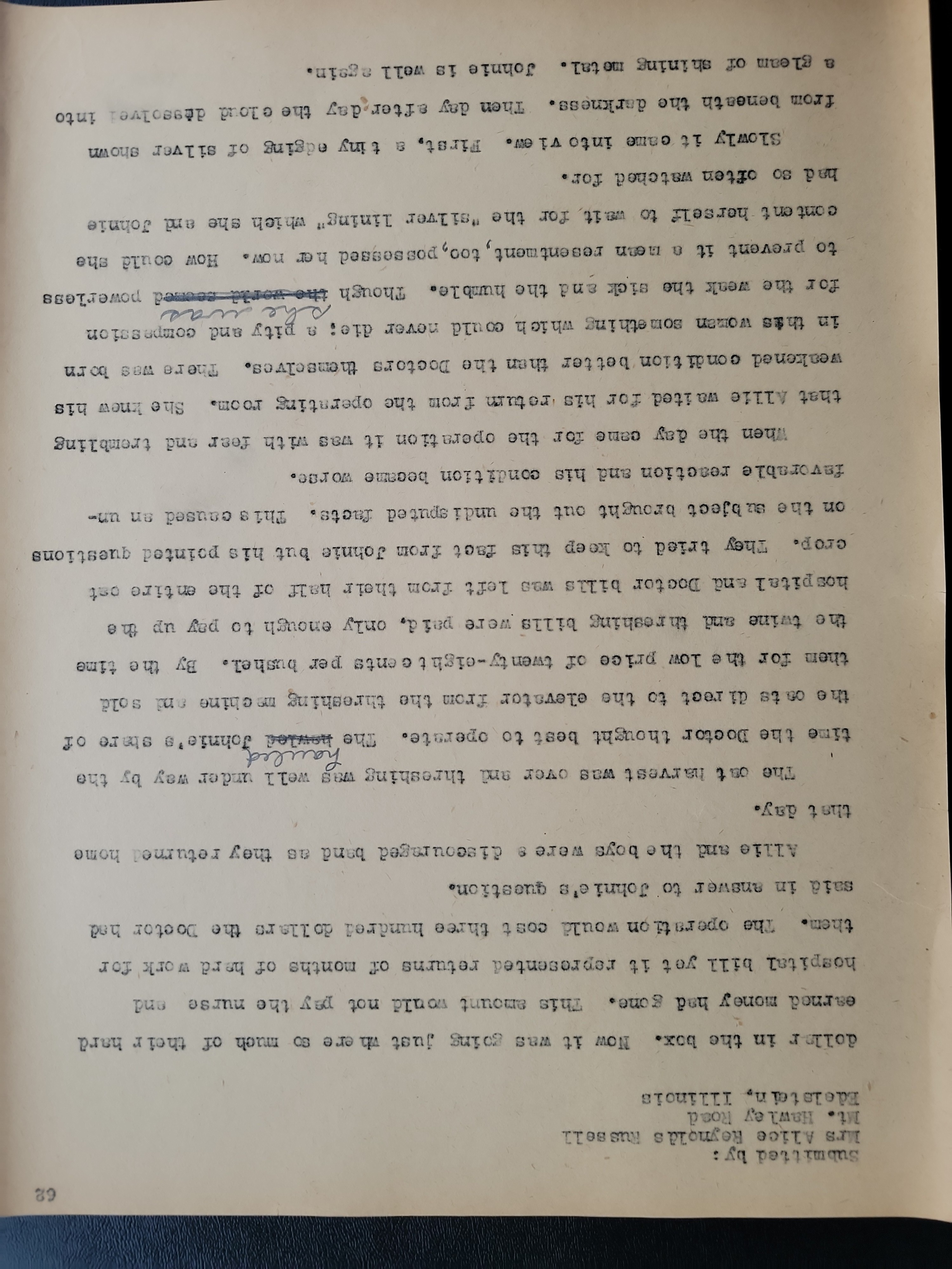
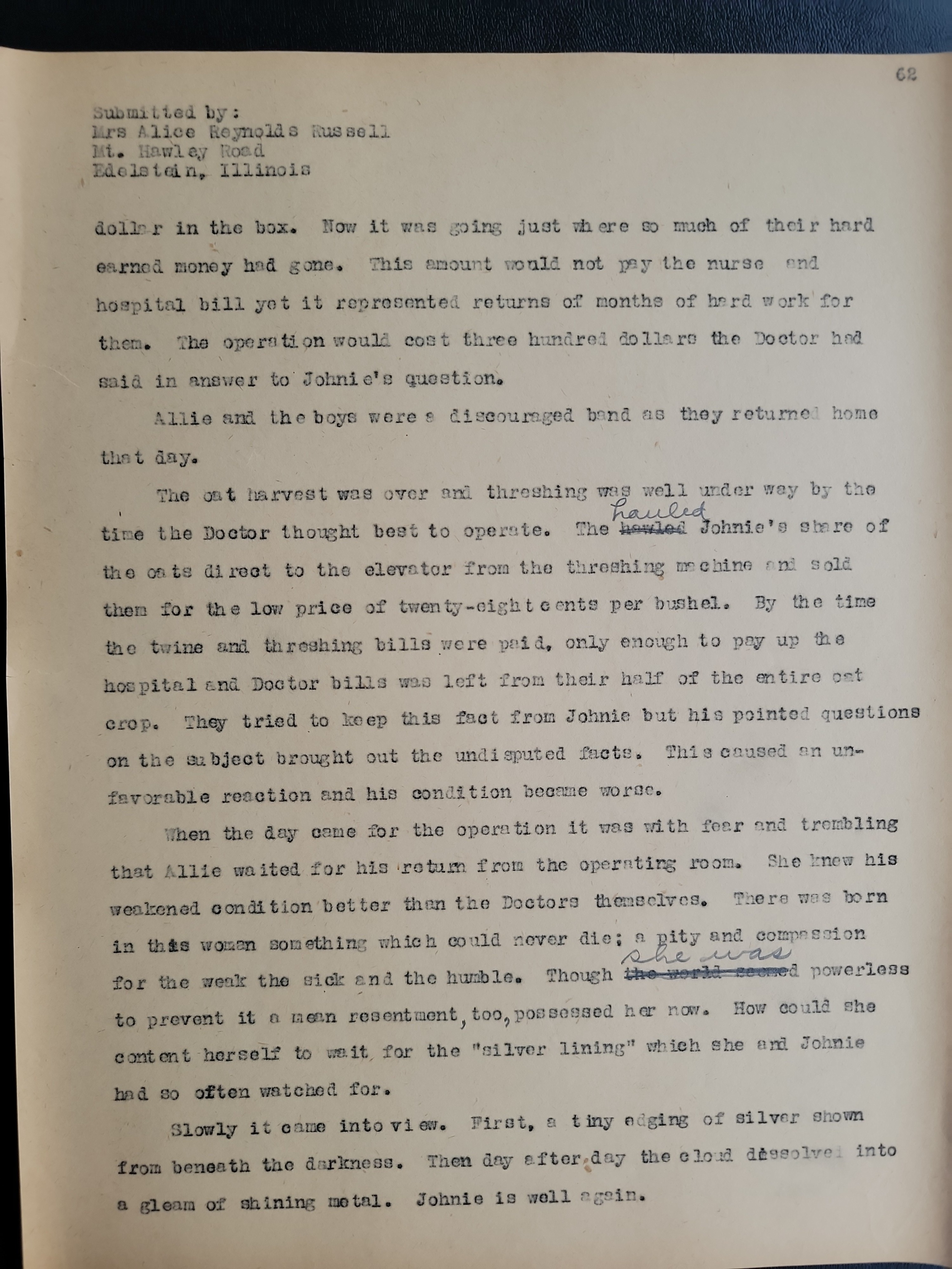
Fix page 226 image orientation (Phase 0 orientation-check miss) + batch 8 progress
A verification agent caught that pages/originals/page-226.jpg was still
upside down despite the earlier page-by-page orientation pass in Phase 0.
Rotated it 180 degrees to correct; the existing transcript text was
already accurate against the corrected orientation, so no text changes
were needed, just the image fix and an updated transcriber note.

Claude-Session: https://claude.ai/code/session_01MLbLpPqcShu7BR6bmmabLA

diff --git a/transcript/page-228.md b/transcript/page-228.md
@@ -6,7 +6,7 @@ image: pages/originals/page-228.jpg
 has_pencil: true
 has_table: false
 illegible_spots: 0
-needs_review: true
+needs_review: false
 ---
 
                                                                     64
@@ -49,10 +49,12 @@ might be and thanked their God for the many blessing received.
 
 - Typed page number "64" at top right.
 - Chapter heading "CHAPTER XVII" centered below the submission block.
-- PENCIL MARK: in "when the found every bulb was rotted" a faint gray
+- PENCIL MARK: in "when the found every bulb was rotted" a gray
   "y"-shaped stroke sits just below the line immediately after "the",
-  apparently a pencil-added "y" correcting "the" to "they". Gray tone
-  suggests pencil rather than typewriter; flagged for review.
+  a pencil-added "y" correcting "the" to "they". Confirmed on close
+  zoom and pixel-level color check: neutral gray/graphite, no blue
+  shift versus the page's typewriter-ink baseline — ordinary pencil,
+  not the separate blue-pencil pattern.
 - TYPED INTERLINEAR INSERTION: the word "bed" is typewritten above the
   line with a caret at the insertion point in "to take her ^ for a few
   days." — transcribed inline as "to take her bed for a few days." The
@@ -64,3 +66,8 @@ might be and thanked their God for the many blessing received.
 - "downed", "could buy and hid from them" (for "hide"), and "the many
   blessing received" (for "blessings") are as typed.
 - Small tear at top edge near the page number; no text affected.
+- Verified: 2026-07-07 — re-checked the pencil "y" insertion, the typed
+  "bed" interlinear insertion with caret, and both typed interlinear
+  quote marks around "standing still and waiting" under magnification;
+  all confirmed accurate as previously transcribed. Resolved
+  needs_review to false; no transcript text changes needed.

diff --git a/transcript/page-222.md b/transcript/page-222.md
@@ -24,7 +24,7 @@ the bank saw fit to start foreclosure on their farm mortgage.  After
 employing a lawyer to advise them it was thought best to sign the farm
 over to the bank.  This left them without a farm of their own, but still
 plenty of debts.  If they had been the kind of people who give up to
-discouragements they certainly would have "folded their tents" as the
+discouregements they certainly would have "folded their tents" as the
 Arabs and as silently stole away.
      Not so, this family.  They rented another eighty acre farm near them
 making two hundred and forty acres in all and set about to try again.
@@ -47,3 +47,11 @@ flowers now.
 - "as silently stole away" (for "stole" vs "stolen"/"stole" idiom) and the
   double space in "his time  to cultivating" are as typed.
 - No pencil marks found on this page.
+- Verified: 2026-07-07 — corrected a silently "fixed" typo from Phase 1:
+  the photo clearly types "discouregements" (an "e" where "discouragements"
+  would have an "a") — confirmed by close zoom, not a letter-shape illusion.
+  Restored the typo per the sacred-typed-layer rule. Checked "unwholesome"
+  (looked like a possible word-break due to a weak "n" strike; pixel check
+  confirms it is one word, no change) and "Johnie" (single "n", no pencil
+  correction present). "brought" strikeover and other overstrikes are
+  ordinary black typewriter ink, not blue pencil. No other changes.

diff --git a/transcript/page-226.md b/transcript/page-226.md
@@ -45,10 +45,10 @@ a gleam of shining metal.  Johnie is well again.
 
 ## Transcriber notes
 
-- IMAGE IS ROTATED 180 DEGREES (photographed upside down). Transcribed
-  from a rotated copy; typed page number "62" is at the top right when
-  properly oriented. Flagged needs_review so the image can be re-shot or
-  rotated.
+- Image was rotated 180 degrees (an orientation-check miss from Phase 0)
+  when this was verified; corrected in place on 2026-07-07 so
+  pages/originals/page-226.jpg now displays upright. Transcript text
+  below was already accurate against the corrected orientation.
 - TWO PENCIL CORRECTIONS on this page:
   1. "The howled Johnie's share of" — typed "howled" is struck through
      in pencil with "hauled" written above it. (The typed word under the
@@ -68,5 +68,5 @@ a gleam of shining metal.  Johnie is well again.
   gray with no blue shift versus the page's typewriter-ink baseline, so
   they remain classified as plain pencil (not the separate blue-pencil
   pattern seen elsewhere in the manuscript). No transcript text changes
-  needed; resolved needs_review to false. The image-rotation issue is a
-  photography/scan artifact, not a transcription problem — see report.
+  needed; resolved needs_review to false. The source image was also
+  corrected from upside-down to upright the same day (see note above).

diff --git a/transcript/page-221.md b/transcript/page-221.md
@@ -6,7 +6,7 @@ image: pages/originals/page-221.jpg
 has_pencil: false
 has_table: false
 illegible_spots: 0
-needs_review: true
+needs_review: false
 ---
 
                                                                     57
@@ -60,3 +60,14 @@ had been a hard year on all the family.  Up every morning by day break
 - The words "only for" at the end of the double-doors line are noticeably
   darker — struck twice or retyped in place; reading is clear.
 - Right edge of the sheet has small tears/chips; no text lost.
+- Verified: 2026-07-07 — resolved needs_review. Examined the margin dot
+  beside "in contact/fortable chairs" closely: it is a solid near-black dot
+  with a faint hairline dash just above/left of it, both plain
+  black/grey (not blue-shifted) and not aligned with any correction,
+  missing word, or error in the adjacent text — most consistent with a
+  stray ink blot or a proofreader's tick unrelated to the text layer, not
+  an authorial pencil correction. Left untranscribed per the no-plausible-
+  purpose rule. Confirmed "only for" overstrike is ordinary black
+  typewriter double-strike, not blue pencil. Checked "Johnie" — typed as
+  single "n", no pencil correction present, stands as typed. No text
+  changes made.

diff --git a/transcript/page-208.md b/transcript/page-208.md
@@ -53,3 +53,11 @@ had never known before.
 - Page ends with a completed paragraph ("...had never known before.") and
   some blank space at the foot of the sheet.
 - No pencil marks found on this page.
+- Verified: 2026-07-07 — transcript confirmed accurate against photo, no
+  changes needed. Checked the "realize" strikeover (the "l" is overtyped
+  with a cross-shaped mark, plain black ink, not blue pencil) and every
+  dialogue quote mark on the page — all are true double quotes, no
+  single-quote normalization found. "Johnie" (with "said Johnie") has no
+  pencil correction. Note: this page is the first to name the family
+  surname "Bradford" ("the Bradfords found themselves greatly in debt");
+  spelled correctly and consistent with the photo.

diff --git a/transcript/page-229.md b/transcript/page-229.md
@@ -55,3 +55,9 @@ have a right too."
 - Page begins a new paragraph — page 228 ended with a completed sentence
   ("...many blessing received."), so no break in continuity.
 - No pencil marks found on this page.
+- Verified: 2026-07-07 — checked all dialogue quote marks (all double,
+  consistent), the "Johnie" spelling at each occurrence (no pencil "n"
+  insertion present), the "strocking" overtype, and comma spacing;
+  transcript confirmed accurate against photo, no changes needed. A
+  faint stray tick mark before "The" (in "low.  The "golden") has no
+  plausible edit purpose and is left untranscribed as a likely smudge.

diff --git a/transcript/page-211.md b/transcript/page-211.md
@@ -53,3 +53,8 @@ to keep warm."  He started trapping them the second day and proudly
   missing windows" (doubled "many"), "mornful" (for "mournful"), and "the
   boys sat about hunting" (for "set about") are as typed.
 - No pencil marks found on this page.
+- Verified: 2026-07-07 — transcript confirmed accurate against photo, no
+  changes needed. "di[d] not" has a very faintly-struck "d" (light type
+  impression) but reads as "did"; both instances of "Johnie" checked for
+  a pencil "n" insertion — none found. Dialogue quotes ("Arthur said,
+  "Even...") confirmed as true double quotes.

diff --git a/transcript/page-209.md b/transcript/page-209.md
@@ -56,3 +56,7 @@ work was most discouraging to these patient long suffering tillers of
 - The story location "Edelstein Congregational Church" matches the
   author's address town (Edelstein, Illinois).
 - No pencil marks found on this page.
+- Verified: 2026-07-07 — transcript confirmed accurate against photo, no
+  changes needed. "John" (not "Johnie") is genuinely typed that way here;
+  confirmed no pencil correction letters nearby. The "tillers" overtyped
+  "i" and the dash after "flowers -" both confirmed against the photo.
